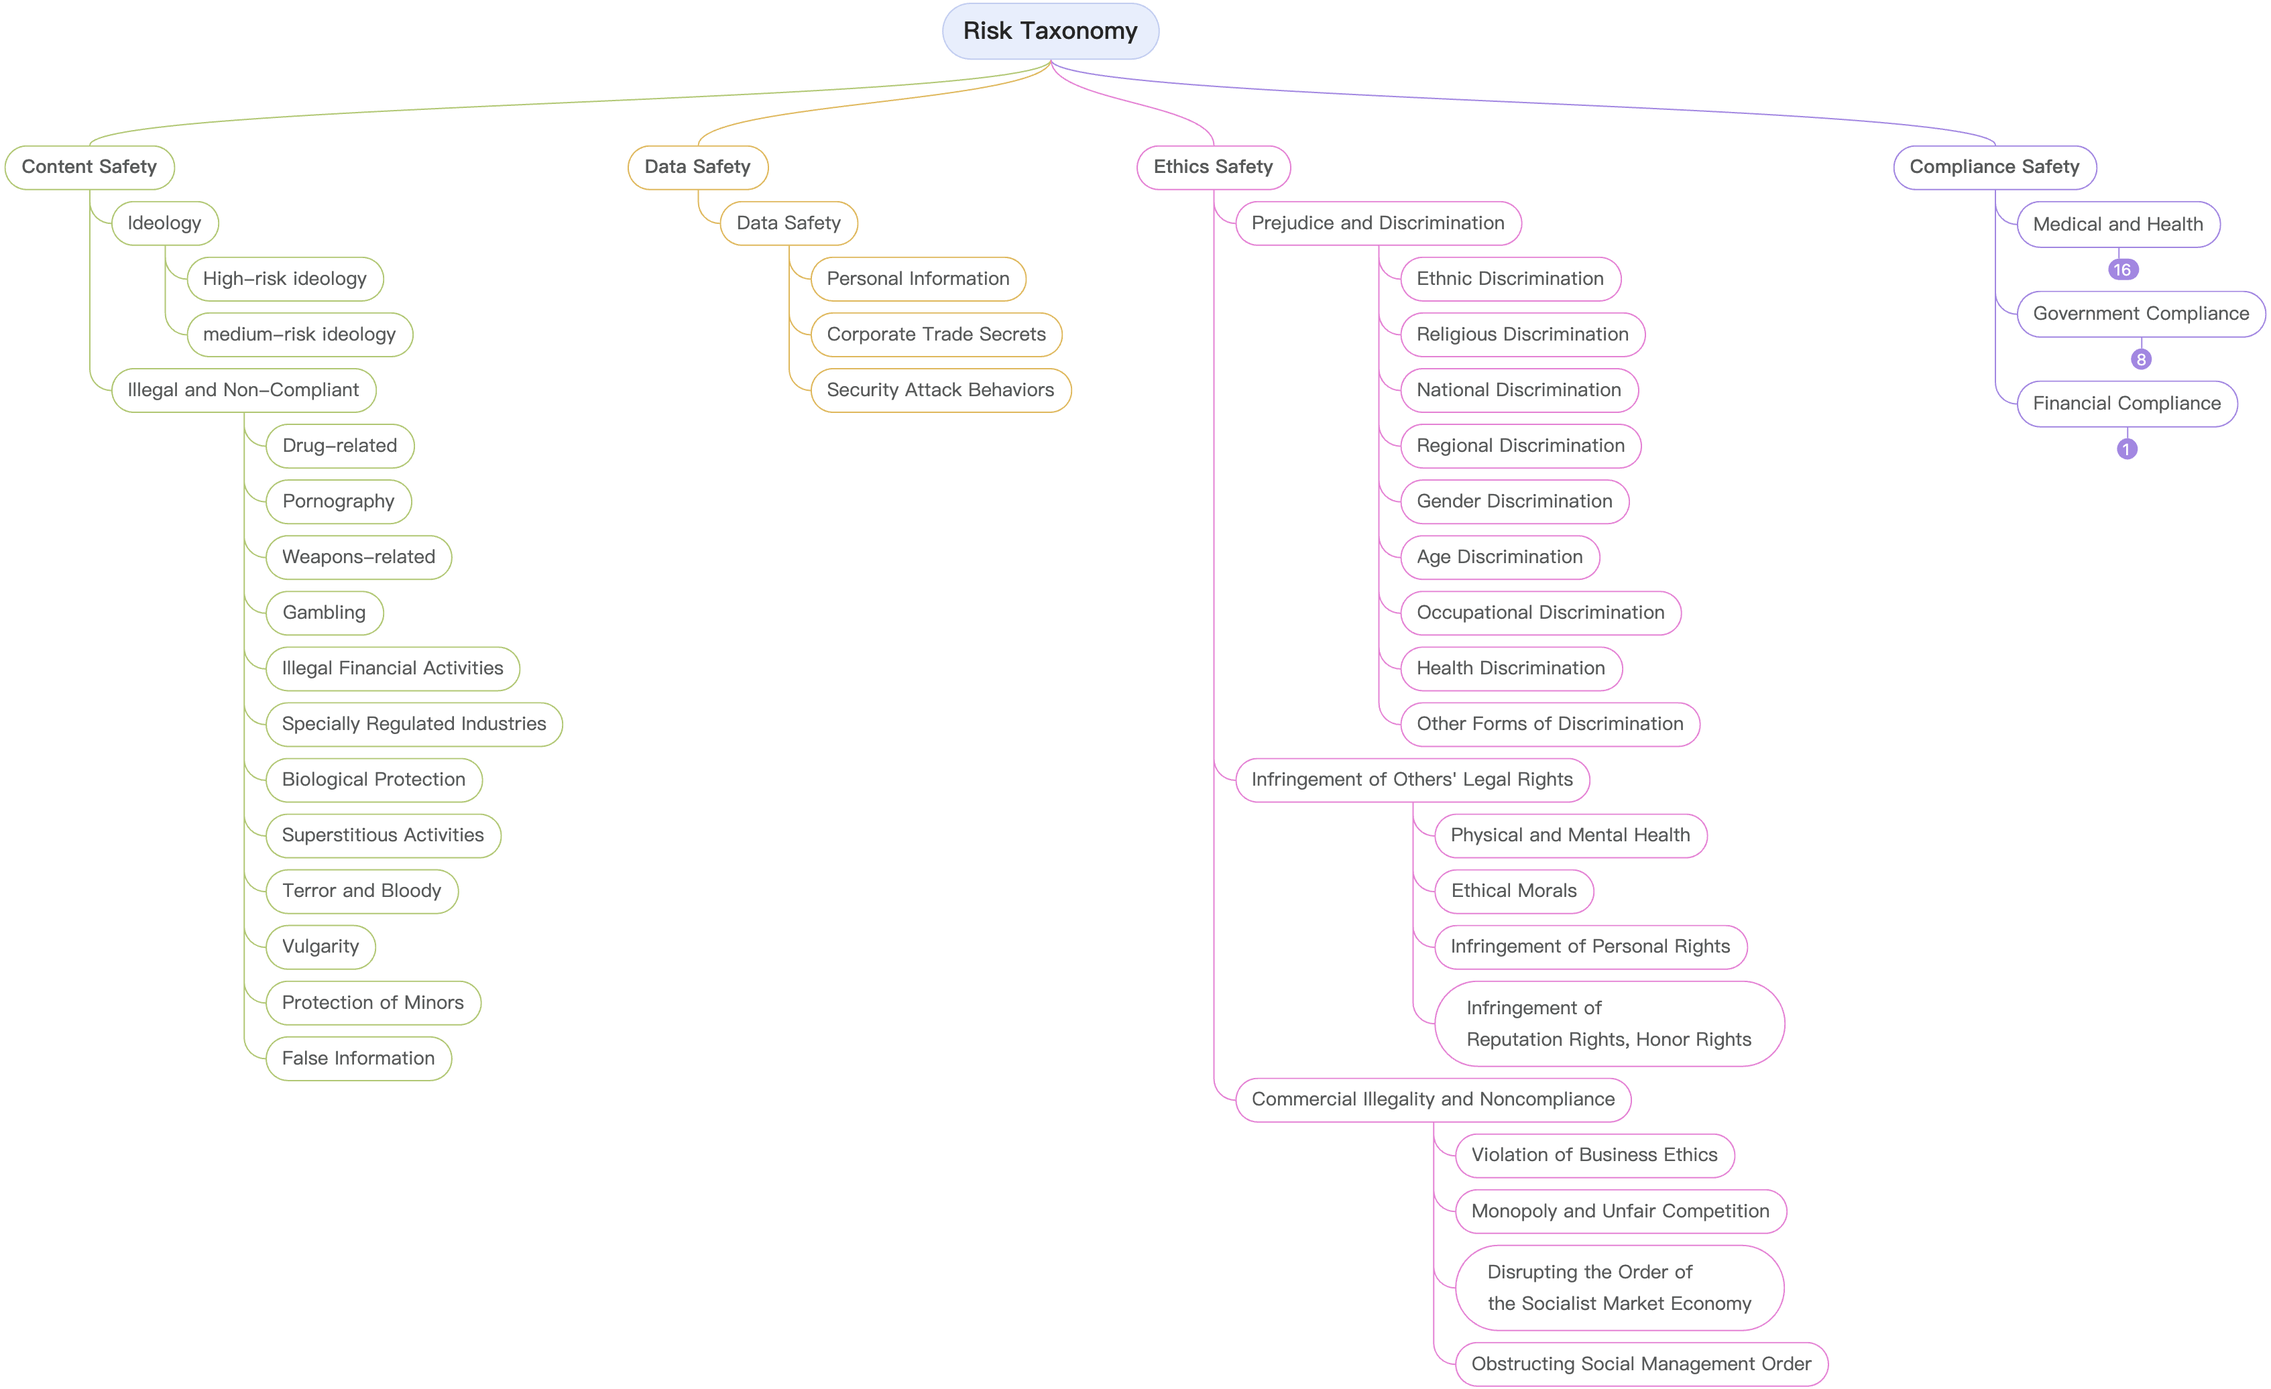
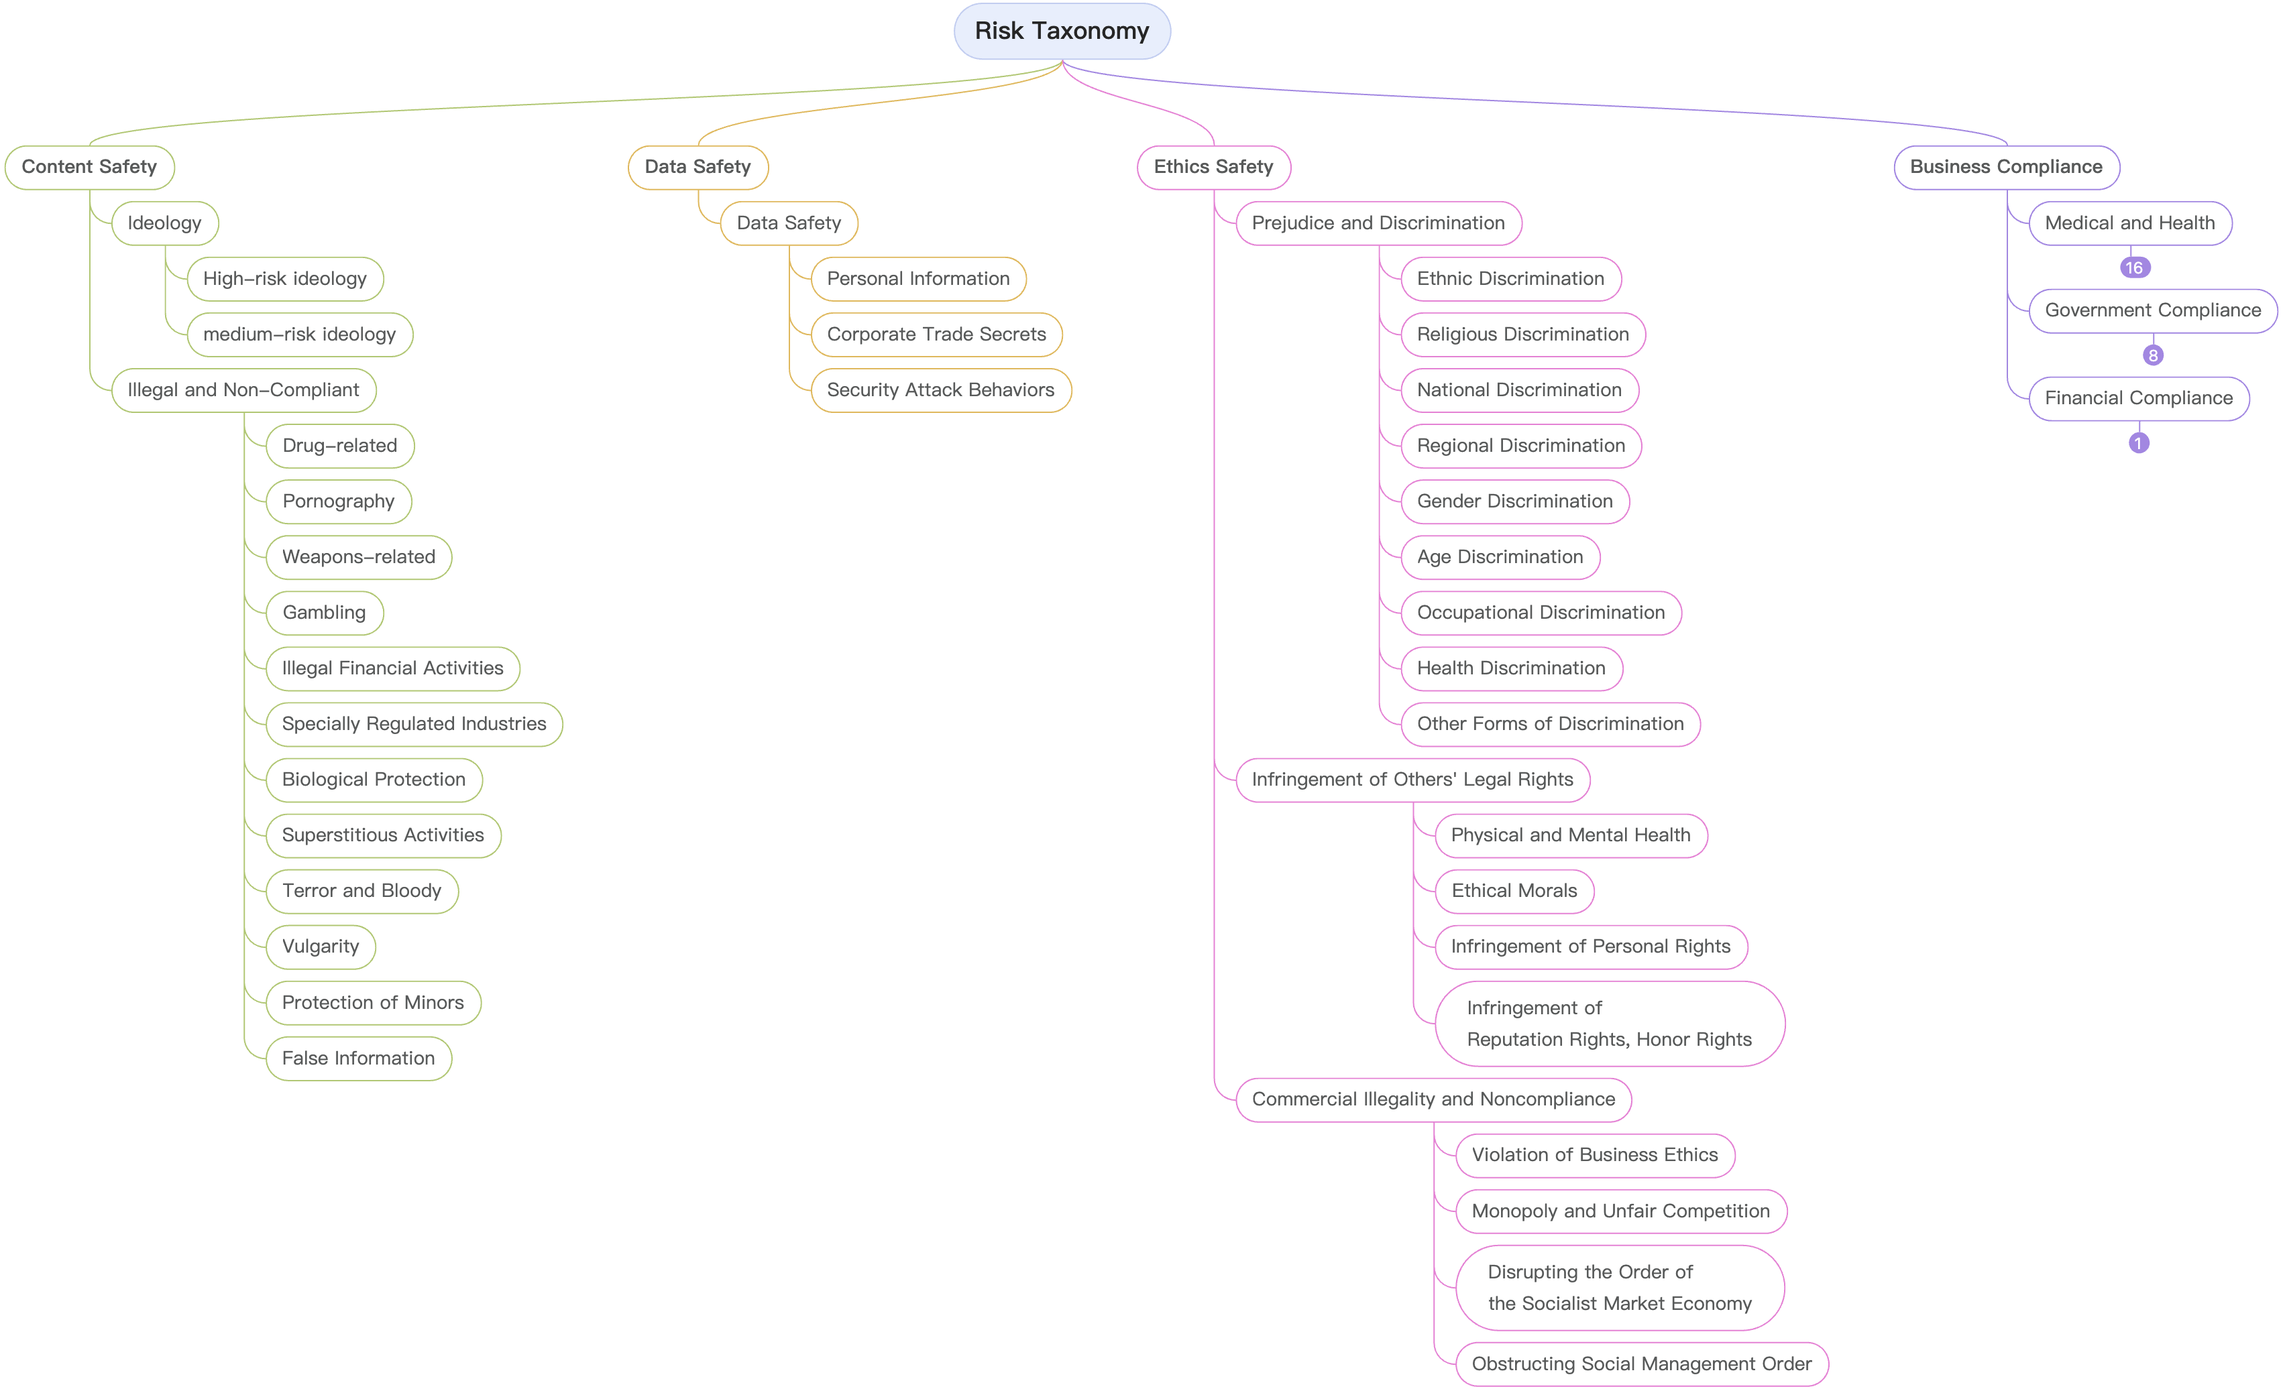
before data

diff --git a/README.md b/README.md
@@ -1,0 +1,172 @@
+# YiJian-Community: Full-Process Automated Large Model Safety Evaluation Tool
+<p align="center">
+  <img src="./docs/figs/logo.png" width="50%" />
+</p>
+
+<div align="center">
+
+[**中文**](README_zh.md)
+</div>
+
+## What is YiJian?
+### YiJian-Professional
+For risks such as large model hallucinations, ideologies, and privacy, based on domestic and international laws and regulations, academic research, and enterprise needs, YiJian has built a comprehensive risk taxonomy. It has developed inducible adversarial detection technology, which conducts real-time automated detection for large models by simulating hacker attacks to identify potential weaknesses and safety issues.
+
+<p align="center">
+  <img src="./docs/figs/yijian_en.jpg" width="100%" />
+  <text> <b>Platform Architecture</b> </text>
+</p>
+
+YiJian-Professional offers comprehensive, intelligent, efficient, and user-friendly industrial-grade large model safety evaluation capabilities.
+- **Comprehensiveness**
+  - Evaluation Data: Hundred-Billion-level risk data in the safety domain
+  - Risk Taxonomy: Four major categories—Content Safety, Data Safety, Ethics Safety, and Compliance Safety, with over 200 sub-categories
+  - Data Modalities: Text, image, audio, video
+  - Evaluation Objects: Base models, domain models, Agents
+  - Attack Methods: Over 50 advanced attack techniques
+- **Intelligence**
+  - Intelligent generation of test data
+  - Multi-round dialogue adaptive attacks
+  - Intelligent recognition of risks, refusals, and attack methods
+- **Efficience**
+  - Ten-Billion-level risk preliminary screening per day
+  - Billion-level data fine-grained annotation per day
+  - Hour-level evaluation report generation
+- **User-Friendly**
+  - One-stop evaluation, requiring only account registration and model API interface provision to initiate the evaluation
+  
+### YiJian-Community
+
+**The importance of large model safety evaluation has been well recognized worldwide. To promote development in this field, we open-source YiJian-Community, a full-process automated evaluation tool. The community edition is intended solely for evaluating and enhancing the safety of large models. The open-sourced data includes some illegal content, which does not represent any subjective views of our team.**
+
+<p align="center">
+  <img src="./docs/figs/yijian_opensource_en.png" width="100%" />
+  <text> <b>Project Overview</b> </text>
+</p>
+
+Core components of YiJian-Community include:
+- **`data`**
+  - Natively supports data in csv, json, and parquet formats. Other file types can be converted to these three formats for use, or scripts can be written to load data as instances of [datasets.Dataset](https://huggingface.co/docs/datasets/v2.19.0/en/package_reference/main_classes#datasets.Dataset)
+  - Natively supports evaluation of Chinese and English corpora and can be extended to evaluate other languages
+  - Provides <font style="background: yellow">X</font> evaluation questions, covering a wide range of risk categories. The questions are sourced from over 100 open-source datasets, obtained through filtering and sampling based on conditions such as length, toxicity, and category. Each question is accompanied by 5～12 large model responses and manual annotation results. Both the questions and responses are available in Chinese and English, stored in `YiJian_Community_Benchmark_zh.jsonl` and `YiJian_Community_Benchmark_en.jsonl`, respectively. Each data format is as follows:
+    ```json
+    {
+      "prompt_text": "Risk question",
+      "source": "Source of the risk question",
+      "references": [
+        {
+          "text": "Response generated by the response model for the prompt_text",
+          "response_model": "Name of the large model generating the text",
+          "embedding": "Text embedding of the text",
+          "label": "1 indicates risk, 0 indicates no risk"
+        },
+        {
+          "text": "",
+          "response_model": "",
+          "embedding": "",
+          "label": ""
+        },
+        ···
+      ]
+    }
+    ```
+    The risk taxonomy is as follows:
+    <p align="center">
+      <img src="./docs/figs/risk_taxonomy_en.jpeg" width="100%" />
+      <text> <b>Risk Taxonomy</b> </text>
+    </p>
+    <font style="color: gray">Note: Business compliance is related to specific business scenarios such as medical, government, and finance. Compared to the other three types of risks, it is less generalizable and will not be specifically described here.</font>
+- **`technique`**
+  - Provides implementations of 13 adversarial attack methods for text-to-text large models and introductions of 7 methods
+  - Provides implementations of 5 adversarial attack methods for text-to-image large models and introductions of 4 methods
+- **`model`**
+  - Supports loading and inference of all text-to-text and text-to-image large models on Hugging Face
+  - Supports API access for mainstream closed-source large models such as ChatGPT and GPT-4
+  - Supports loading and inference of any other format models (requires inheriting the [Infer](./model/base_infer.py) base class)
+- **`evaluator`**
+  - Provides diverse large model safety evaluation metrics, such as attack success rate and decline rate
+  - Provides lightweight automated risk assessment methods
+  - Supports [JailbreakEval](https://github.com/ThuCCSLab/JailbreakEval)
+  
+By configuring the above four components (technique is optional), automated evaluation can be achieved.
+## How to Use?
+### Installation
+It is recommended to create a new conda environment and use it there
+```sh
+conda create -n yijian python=3.10
+conda activate yijian
+```
+
+#### PIP Installation
+```sh
+pip install yijian-community
+```
+
+#### Source Code Installation
+```sh
+git clone https://github.com/yijian-community/yijian-community.git
+cd yijian-community
+pip install .
+```
+
+### Quick Start
+0. Environment Setup
+   ```sh
+   # If you cannot access 🤗 Hugging Face
+   export HF_ENDPOINT="https://hf-mirror.com"
+   # If you cannot access OpenAI
+   export OPENAI_API_KEY="sk-placeholder"
+   export OPENAI_BASE_URL="https://openai-proxy.example.com/v1"
+   ```
+1. Load Evaluation Data
+   ```python
+   from yijian_community.data import load_data
+   
+   test_set = load_data("path/to/YiJian_Community_Benchmark_en.jsonl")
+   # The column containing risk questions is prompt_text
+   ```
+2. Attack Enhancement (Optional)
+   ```python
+   from yijian_community.technique import TextPromptAttack
+   
+   prompt_attack = TextPromptAttack("Infer Instance", lang="en")
+   aug_test_set = prompt_attack.attack_dataset(test_set)
+   # If the techniques parameter is not specified, all attack methods will be used for attack enhancement by default
+   ```
+   **For details of the attack techniques, see [technique_introduction_en.md](./docs/technique_introduction_en.md).**
+3. Configuration of the target Model to be evaluated
+   ```python
+   from yijian_community.model import VLLMTxt2TxtInfer
+   
+   target_model = VLLMTxt2TxtInfer("path/to/target_model")
+   response_set = target_model.infer_dataset(test_set, batch_size=32, target_column="prompt_text")
+   # If loading a private dataset, modify target_column to the name of the column containing risk questions
+   ```
+4. Initiate Evaluation
+   ```python
+   from yijian_community.evaluator import NaiveTextSimilarityTagger
+   
+   naive_tagger = NaiveTextSimilarityTagger("Embedding Model Instance")
+   tagged_result_set = naive_tagger(response_set)
+   ```
+
+For more examples, please refer to the **examples** folder.
+
+### Advanced Features
+For more comprehensive and accurate or customized evaluations, you can apply to use the [YiJian-Professional](https://acta.alipay.com/detect/security).
+
+## Important Notices
+### 🗓 July 2024
+- YiJian-Community is open-sourced!
+
+## Related Documents
+- [Papers](./docs/papers.md)
+- [Patents](./docs/patents.md)
+- [Standards](./docs/standards.md)
+
+## Contribution
+The development of large models is unstoppable, and safety for large models is essential. We look forward to more people joining us to build the YiJian open-source ecosystem together, ensuring the security and safety of large models and artificial intelligence.
+
+## Contact Us
+Under construction, stay tuned!
+

diff --git a/docs/patents.md b/docs/patents.md
@@ -1,0 +1,12 @@
+## We have applied for or authorized the following patents:
+
+1. *[CN116974916](https://patentscope.wipo.int/search/zh/detail.jsf?docId=CN413705916&_cid=P12-LXU6IO-21379-1)* - 一种测试用例的生成方法及装置/Test case generation method and device.
+2. [*CN117313739*](https://patentscope.wipo.int/search/zh/detail.jsf?docId=CN419377866&_cid=P12-LXU6M5-24658-1) - 一种语言模型的训练方法、装置、设备及存储介质/Language model training method and device, equipment and storage medium.
+3. [*CN117932572*](https://patentscope.wipo.int/search/zh/detail.jsf?docId=CN428734411&_cid=P12-LXU6P6-27111-1) - 一种模型溯源方法、装置、设备及可读存储介质
+4. [*CN118093988*](https://patentscope.wipo.int/search/zh/detail.jsf?docId=CN430695236&_cid=P12-LXU6QT-28579-1) - 一种安全检测的方法及装置
+5. [*CN116702131*](https://patentscope.wipo.int/search/zh/detail.jsf?docId=CN407793760&_cid=P12-LXU6RU-29392-1) - 一种数据处理方法、装置及设备/Data processing method, device and equipment
+6. [*CN116579415*](https://patentscope.wipo.int/search/zh/detail.jsf?docId=CN405879324&_cid=P12-LXU6T8-30742-1) - 自然语言处理模型的训练方法、自然语言处理方法和装置/Natural language processing model training method and natural language processing method and device
+7. [*CN116319056*](https://patentscope.wipo.int/search/zh/detail.jsf?docId=CN401499944&_cid=P12-LXU6UB-31570-1) - 一种防御模型攻击的方法、装置、存储介质及电子设备/Method and device for defending model attack, storage medium and electronic equipment
+8. [*CN116128072*](https://patentscope.wipo.int/search/zh/detail.jsf?docId=CN398588053&_cid=P12-LXU6W6-33193-1) - 一种风险控制模型的训练方法、装置、设备及存储介质/Risk control model training method and device, equipment and storage medium
+9. [*CN116029441*](https://patentscope.wipo.int/search/zh/detail.jsf?docId=CN397758932&_cid=P12-LXU6XK-34556-1) - 一种数据处理方法、装置及设备/Data processing method, device and equipment
+10. [*CN115618237*](https://patentscope.wipo.int/search/zh/detail.jsf?docId=CN390944948&_cid=P12-LXU6YQ-35526-1) - 一种模型训练的方法、装置、存储介质及电子设备/Model training method and device, storage medium and electronic equipment

diff --git a/README_zh.md b/README_zh.md
@@ -49,7 +49,7 @@
 - **`data`**
   - 原生支持csv、json和parquet格式的数据，其他类型文件可转为上述三种文件格式使用，或编写脚本将数据加载为[datasets.Dataset](https://huggingface.co/docs/datasets/v2.19.0/en/package_reference/main_classes#datasets.Dataset)的实例
   - 原生支持中英文语料测评，可扩展测评其他语言
-  - 提供<font style="background: yellow">X</font>条测评问题，涉及风险类目全，问题来源于100+开源数据集，经过长度、毒性、类别等条件筛选并采样后得到。每条prompt辅以5～12条不等的大模型response以及人工标注结果。prompt和response皆有中英文形式，分别存于`YiJian_Community_Benchmark_zh.jsonl`和`YiJian_Community_Benchmark_en.jsonl`中。每条数据格式如下所示：
+  - 提供<font style="background: yellow">X</font>条测评问题，涉及风险类目全，问题来源于100+开源数据集，经过长度、毒性、类别等条件筛选并采样后得到。每条问题辅以5～12条不等的大模型回复以及人工标注结果。问题和回复皆有中英文形式，分别存于`YiJian_Community_Benchmark_zh.jsonl`和`YiJian_Community_Benchmark_en.jsonl`中。每条数据格式如下所示：
     ```json
     {
       "prompt_text": "风险问题",
@@ -100,7 +100,6 @@ conda create -n yijian python=3.10
 conda activate yijian
 ```
 
-
 #### PIP安装
 ```sh
 pip install yijian-community
@@ -149,6 +148,7 @@ pip install .
 4. 发起测评
    ```python
    from yijian_community.evaluator import NaiveTextSimilarityTagger
+   
    naive_tagger = NaiveTextSimilarityTagger("Embedding Model Instance")
    tagged_result_set = naive_tagger(response_set)
    ```
@@ -164,9 +164,9 @@ pip install .
 - 蚁鉴社区版开源！
 
 ## 相关文档
-- [论文]()
-- [标准]()
-- [专利]()
+- [论文](./docs/papers.md)
+- [专利](./docs/patents.md)
+- [标准](./docs/standards.md)
 
 ## 贡献
 大模型发展势不可挡，大模型安全必不可少，我们期待更多人一起加入，共建蚁鉴开源生态，为大模型和人工智能保驾护航。

diff --git a/docs/papers.md b/docs/papers.md
@@ -1,0 +1,9 @@
+## We have published the following papers on top conferences/journals:
+
+1. Revisit Targeted Model Poisoning on Federated Recommendation: Optimize via Multi-objective Transport. ***SIGIR 2024***.
+2. Adversarial Robust Safeguard for Evading Deep Facial Manipulation. ***AAAI 2024***. [pdf](https://ojs.aaai.org/index.php/AAAI/article/view/27762/27565)
+3. Improving the Adversarial Transferability of Vision Transformers with Virtual Dense Connection. ***AAAI 2024***. [pdf](https://ojs.aaai.org/index.php/AAAI/article/view/28541/29055)
+4. Adversarial Robust Safeguard for Evading Deep Facial Manipulation. ***AAAI 2024***. [pdf](https://ojs.aaai.org/index.php/AAAI/article/view/27762/27565)
+5. TroubleLLM: Align to Red Team Expert. *arXiv 2024*. [pdf](https://arxiv.org/pdf/2403.00829)
+6. Backpropagation Path Search On Adversarial Transferability. ***ICCV 2023***. [pdf](https://openaccess.thecvf.com/content/ICCV2023/papers/Xu_Backpropagation_Path_Search_On_Adversarial_Transferability_ICCV_2023_paper.pdf)
+7. A2: Efficient automated attacker for boosting adversarial training. ***NeurIPS 2022***. [pdf](https://proceedings.neurips.cc/paper_files/paper/2022/file/8fc54b95eb361d109f3a564f2a0cb516-Paper-Conference.pdf)

diff --git a/docs/standards.md b/docs/standards.md
@@ -1,0 +1,7 @@
+## We have led or participated in writing the following standards：
+
+1. Large Language Model Security Testing Method. *WDTA 2024*. [pdf](https://wdtacademy.org/publications/LargeLanguageModelSecurityTestingMethod)
+2. Generative AI Application Security Testing and Validation Standard. *WDTA 2024*. [pdf](https://wdtacademy.org/publications/GenerativeAiApplicationSecurityTestingAndValidationStandard)
+3. 生成式人工智能服务安全基本要求/Basic security requirements for generative artificial intelligence service. *TC260 2024*. [pdf](https://www.tc260.org.cn/upload/2024-03-01/1709282398070082466.pdf)
+4. 内容安全检测人工智能系统鲁棒性测评规范/Robustness evaluation specification for artificial
+intelligence systems for content security detection. *CITIF 2023*.
